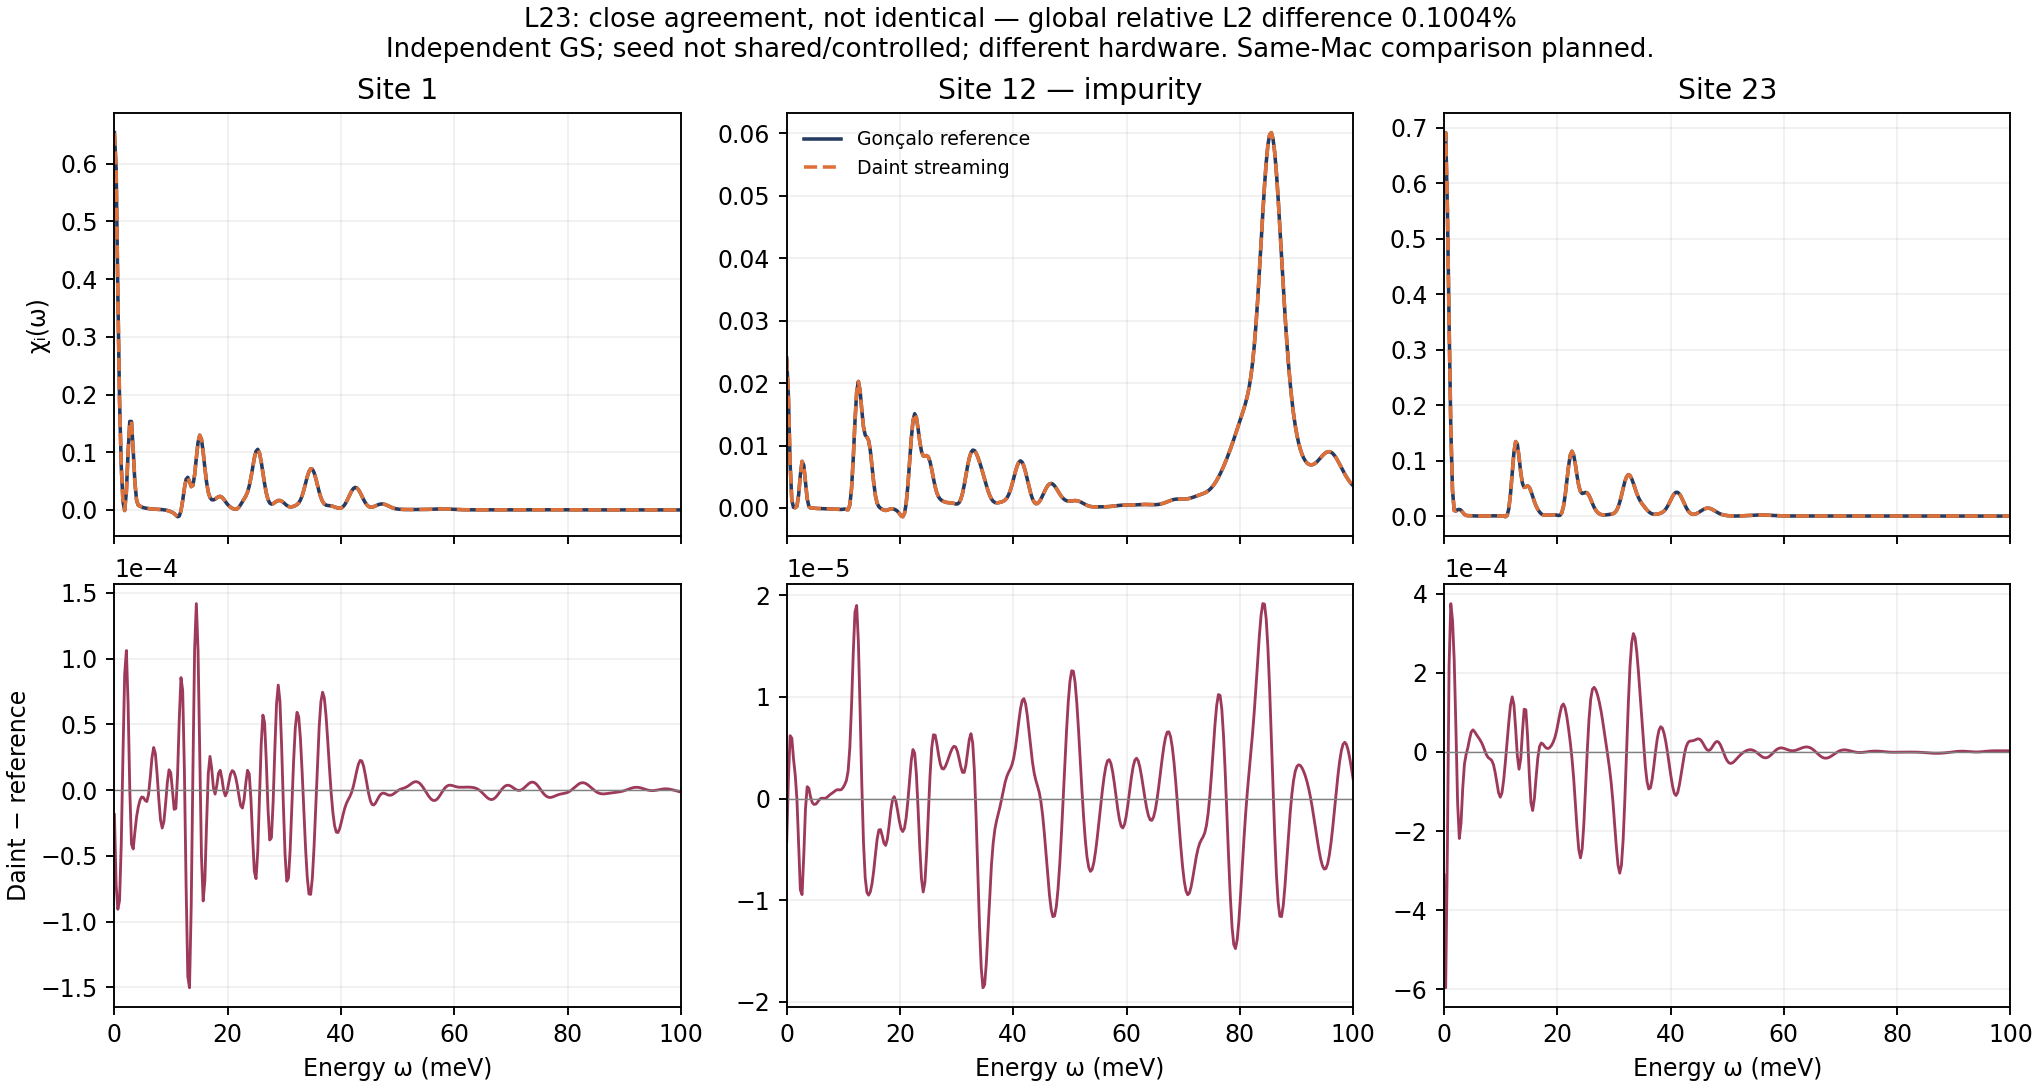
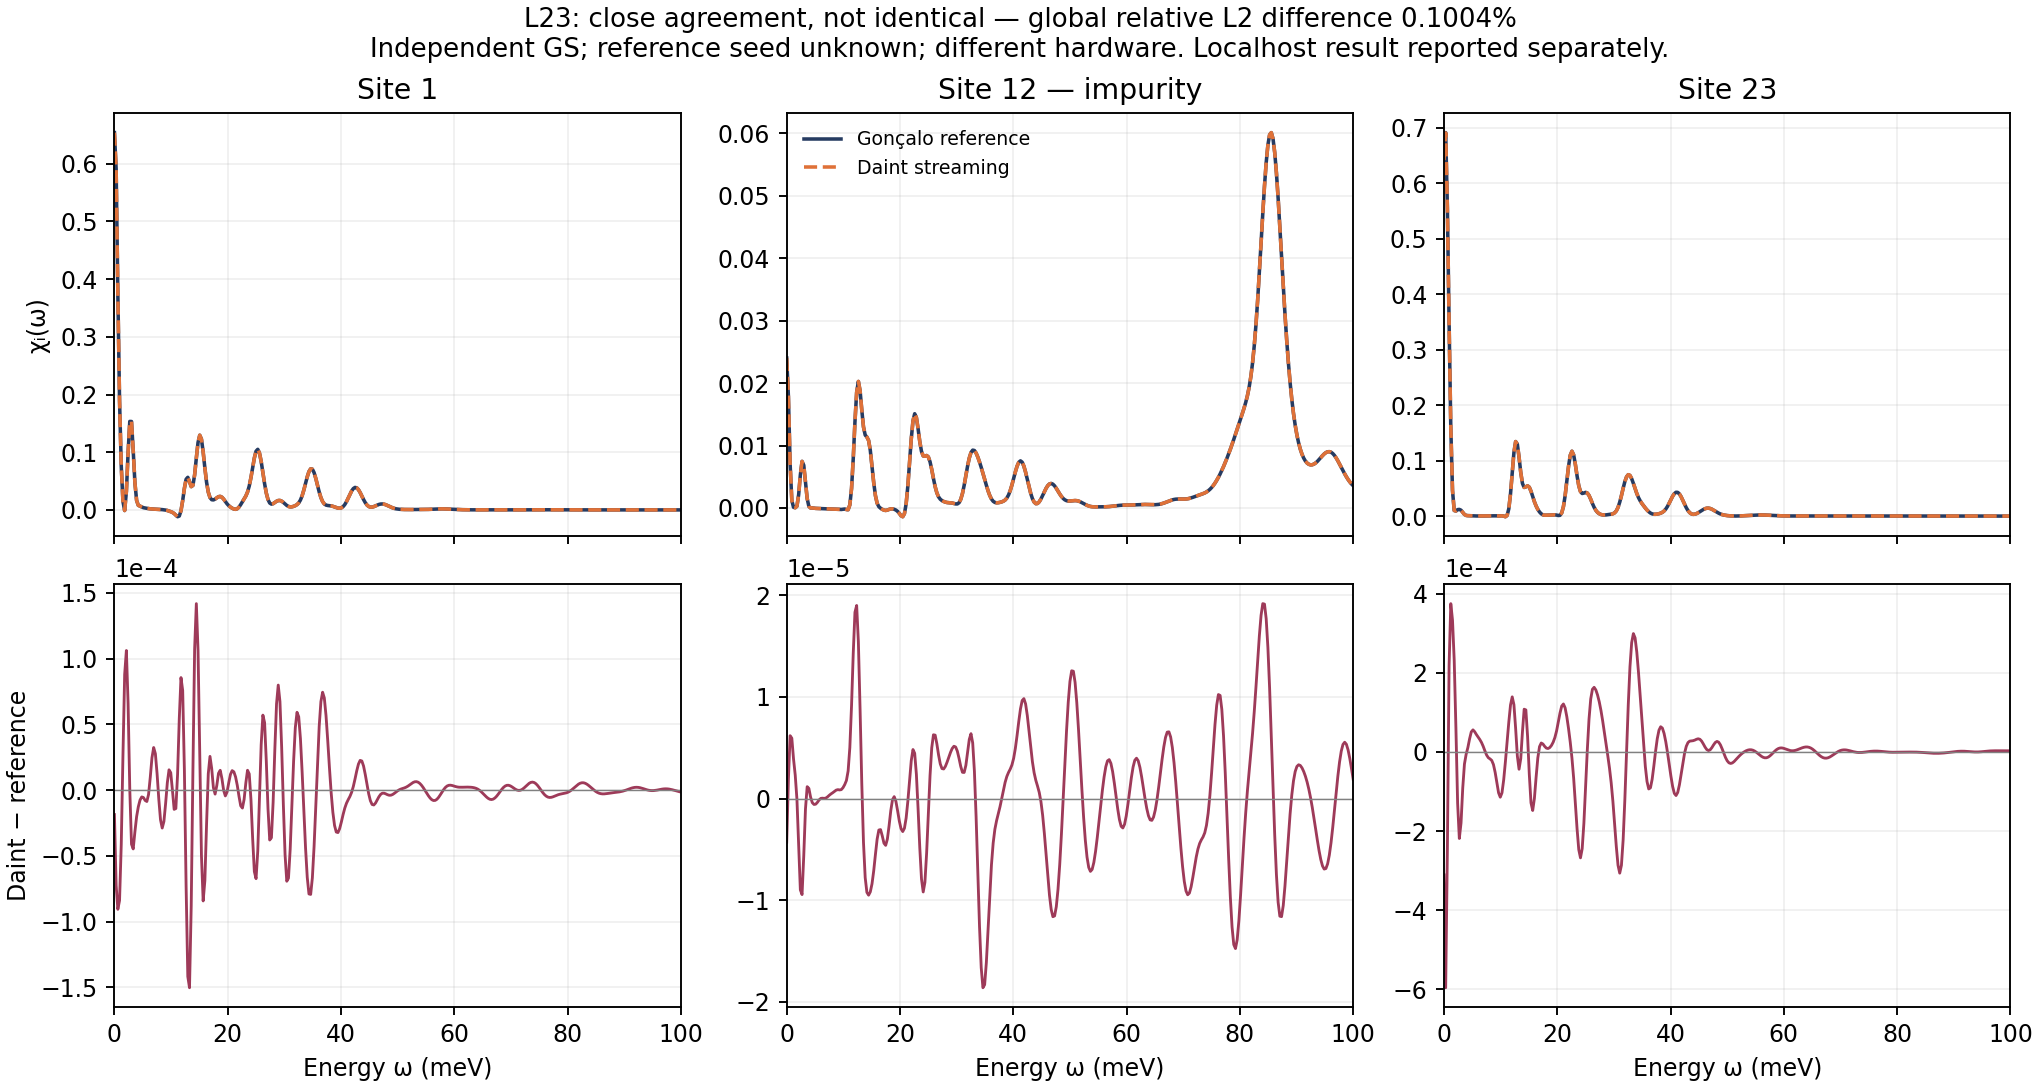
Add L23 validation and performance plots

Changed region(s): [[0.1853, 0.0312, 0.8338, 0.0625]]

diff --git a/tools/plot_l23_localhost.py b/tools/plot_l23_localhost.py
@@ -1,0 +1,190 @@
+"""Verify and plot the retained L23 localhost validation; submits no calculations."""
+
+from __future__ import annotations
+
+import csv
+import tomllib
+from pathlib import Path
+
+import h5py
+import matplotlib
+import numpy as np
+
+matplotlib.use("Agg")
+import matplotlib.pyplot as plt
+
+REFERENCE_COLOR = "#263b61"
+LOCAL_COLOR = "#e67e3f"
+DELTA_COLOR = "#9e3a59"
+CHANNEL_COLORS = {"zz": "#3b6ea8", "pm": "#e09f3e", "mp": "#6a994e"}
+
+
+def read_spectrum(path: Path) -> tuple[np.ndarray, np.ndarray]:
+    with path.open(newline="") as handle:
+        rows = list(csv.DictReader(handle, delimiter="\t"))
+    if len(rows) != 23 * 333 or {int(row["state"]) for row in rows} != {1}:
+        raise ValueError("Expected one state, 23 sites and 333 frequencies")
+    omega, spectra = [], []
+    for site in range(1, 24):
+        site_rows = [row for row in rows if int(row["site"]) == site]
+        omega.append([float(row["omega_meV"]) for row in site_rows])
+        spectra.append([float(row["chi"]) for row in site_rows])
+    return np.asarray(omega), np.asarray(spectra)
+
+
+def read_reference(path: Path) -> np.ndarray:
+    with h5py.File(path, "r") as handle:
+        references = handle[handle["χ_n_i"][0]][()]
+        return np.asarray([handle[reference][()] for reference in references])
+
+
+def verify_metrics(reference, spectrum, omega, recorded):
+    expected_omega = np.tile(np.linspace(0, 100, 333), (23, 1))
+    if (
+        reference.shape != spectrum.shape
+        or reference.shape != omega.shape
+        or reference.shape != (23, 333)
+    ):
+        raise ValueError("Reference and result must both contain 23 x 333 values")
+    if not np.isfinite(reference).all() or not np.isfinite(spectrum).all():
+        raise ValueError("Reference or result contains non-finite values")
+    np.testing.assert_allclose(omega, expected_omega)
+    delta = spectrum - reference
+    relative_l2 = np.linalg.norm(delta) / np.linalg.norm(reference)
+    max_abs = np.max(np.abs(delta))
+    np.testing.assert_allclose(relative_l2, recorded["relative_L2_difference"], rtol=1e-12)
+    np.testing.assert_allclose(max_abs, recorded["max_abs_difference"], rtol=1e-12)
+    matching_peaks = np.count_nonzero(np.argmax(reference, axis=1) == np.argmax(spectrum, axis=1))
+    if matching_peaks != 23:
+        raise ValueError(f"Only {matching_peaks}/23 sampled peak positions match")
+    return delta, relative_l2, max_abs, matching_peaks
+
+
+def plot_spectra(output, reference, spectrum, omega, delta, relative_l2):
+    fig, axes = plt.subplots(2, 3, figsize=(12.2, 6.5), sharex="col", constrained_layout=True)
+    for column, site in enumerate((1, 12, 23)):
+        index = site - 1
+        axes[0, column].plot(
+            omega[index],
+            reference[index],
+            color=REFERENCE_COLOR,
+            linewidth=1.8,
+            label="Gonçalo gold standard",
+        )
+        axes[0, column].plot(
+            omega[index],
+            spectrum[index],
+            "--",
+            color=LOCAL_COLOR,
+            linewidth=1.45,
+            label="AiiDA localhost",
+        )
+        axes[0, column].set_title(f"Site {site}" + (" — spin-½ impurity" if site == 12 else ""))
+        axes[1, column].plot(omega[index], delta[index], color=DELTA_COLOR, linewidth=1.25)
+        axes[1, column].axhline(0, color="0.45", linewidth=0.65)
+        axes[1, column].set_xlabel("Energy ω (meV)")
+        axes[1, column].ticklabel_format(axis="y", style="sci", scilimits=(0, 0))
+        for row in range(2):
+            axes[row, column].set_xlim(0, 100)
+            axes[row, column].grid(alpha=0.18)
+    axes[0, 0].set_ylabel("χᵢ(ω)")
+    axes[1, 0].set_ylabel("Localhost − gold")
+    axes[0, 1].legend(frameon=False, fontsize=8.5)
+    fig.suptitle(
+        f"L=23 localhost validation — relative L2 difference {100 * relative_l2:.4f}%\n"
+        "Independent ground states; reference seed unknown; sampled peaks match at all 23 sites",
+        fontsize=11.5,
+    )
+    fig.savefig(output, dpi=180)
+    plt.close(fig)
+
+
+def plot_diagnostics(output, comparison_path, timing_path, summary_path):
+    with comparison_path.open(newline="") as handle:
+        comparison = list(csv.DictReader(handle, delimiter="\t"))
+    with timing_path.open(newline="") as handle:
+        timings = list(csv.DictReader(handle, delimiter="\t"))
+    with summary_path.open(newline="") as handle:
+        summaries = list(csv.DictReader(handle, delimiter="\t"))
+
+    fig, axes = plt.subplots(1, 3, figsize=(15, 4.8), constrained_layout=True)
+
+    sites = np.asarray([int(row["site"]) for row in comparison])
+    site_l2 = 100 * np.asarray([float(row["relative_L2"]) for row in comparison])
+    axes[0].bar(sites, site_l2, color="#4f8a8b", width=0.78)
+    axes[0].axvspan(11.5, 12.5, color="#f4a261", alpha=0.18, label="impurity")
+    axes[0].set(xlabel="Site", ylabel="Relative L2 difference (%)", title="Agreement by site")
+    axes[0].set_xticks([1, 4, 8, 12, 16, 20, 23])
+    axes[0].grid(axis="y", alpha=0.2)
+    axes[0].legend(frameon=False, fontsize=8)
+
+    offsets = {"zz": -0.24, "pm": 0.0, "mp": 0.24}
+    for channel in ("zz", "pm", "mp"):
+        rows = [row for row in timings if row["channel"] == channel]
+        x = np.asarray([int(row["site"]) for row in rows], dtype=float) + offsets[channel]
+        minutes = np.asarray([float(row["seconds"]) / 60 for row in rows])
+        axes[1].bar(x, minutes, width=0.22, color=CHANNEL_COLORS[channel], label=channel)
+    axes[1].axvspan(11.5, 12.5, color="#d62828", alpha=0.08)
+    axes[1].set_yscale("log")
+    axes[1].set(
+        xlabel="Site", ylabel="Task time (minutes, log scale)", title="Measured spectral-task cost"
+    )
+    axes[1].set_xticks([1, 4, 8, 12, 16, 20, 23])
+    axes[1].grid(axis="y", which="both", alpha=0.2)
+    axes[1].legend(frameon=False, ncol=3, fontsize=8)
+
+    labels = [row["label"] for row in summaries]
+    minutes = [float(row["minutes"]) for row in summaries]
+    colors = ["#7a8fa6", "#506784", LOCAL_COLOR, "#8b6f9e"]
+    positions = np.arange(len(labels))
+    axes[2].barh(positions, minutes, color=colors)
+    axes[2].set_yticks(positions, labels)
+    axes[2].invert_yaxis()
+    axes[2].set(xlabel="Elapsed time (minutes)", title="Reported elapsed times")
+    axes[2].grid(axis="x", alpha=0.2)
+    for position, value in zip(positions, minutes):
+        axes[2].text(value + 0.45, position, f"{value:.1f}", va="center", fontsize=8.5)
+    axes[2].set_xlim(0, max(minutes) * 1.18)
+
+    fig.suptitle(
+        "L=23 numerical agreement and performance diagnostics\n"
+        "Time bars use different machines/boundaries and are not a controlled speedup benchmark",
+        fontsize=11.5,
+    )
+    fig.savefig(output, dpi=180)
+    plt.close(fig)
+
+
+def main():
+    root = Path(__file__).resolve().parents[1]
+    result_dir = root / "results" / "L23"
+    local_dir = result_dir / "localhost"
+    reference_path = root / "examples" / "l23_goncalo_20260917" / "reference" / "chi_L23.jld2"
+
+    reference = read_reference(reference_path)
+    omega, spectrum = read_spectrum(local_dir / "spectrum.tsv")
+    with (local_dir / "comparison.toml").open("rb") as handle:
+        recorded = tomllib.load(handle)
+    delta, relative_l2, max_abs, matching_peaks = verify_metrics(
+        reference, spectrum, omega, recorded
+    )
+
+    comparison_output = result_dir / "l23_localhost_comparison.png"
+    diagnostics_output = result_dir / "l23_localhost_diagnostics.png"
+    plot_spectra(comparison_output, reference, spectrum, omega, delta, relative_l2)
+    plot_diagnostics(
+        diagnostics_output,
+        local_dir / "comparison_by_site.tsv",
+        local_dir / "task_timings.tsv",
+        result_dir / "timing_summary.tsv",
+    )
+    print(
+        f"relative_L2={relative_l2:.17g}; max_abs={max_abs:.17g}; "
+        f"matching_peak_indices={matching_peaks}/23"
+    )
+    print(comparison_output)
+    print(diagnostics_output)
+
+
+if __name__ == "__main__":
+    main()

diff --git a/tools/plot_l23_comparison.py b/tools/plot_l23_comparison.py
@@ -67,7 +67,7 @@ def main():
     axes[0, 1].legend(frameon=False, fontsize=8)
     fig.suptitle(
         f"L23: close agreement, not identical — global relative L2 difference {100 * relative_l2:.4f}%\n"
-        "Independent GS; seed not shared/controlled; different hardware. Same-Mac comparison planned.",
+        "Independent GS; reference seed unknown; different hardware. Localhost result reported separately.",
         fontsize=11,
     )
     output = result_dir / "l23_comparison.png"

diff --git a/results/L23/README.md b/results/L23/README.md
@@ -126,6 +126,14 @@ This measured heterogeneity motivates a future cost-aware or dynamic task
 assignment; merely changing thread/process decomposition on the same eight
 cores cannot provide a large gain.
 
+![Localhost spectra compared with Gonçalo's gold standard](l23_localhost_comparison.png)
+
+![L23 numerical and timing diagnostics](l23_localhost_diagnostics.png)
+
+The timing bars deliberately retain their different measurement boundaries and
+are **not** presented as a controlled speedup benchmark. The underlying values
+and scope notes are stored in [timing_summary.tsv](timing_summary.tsv).
+
 Retained local outputs: [compact JLD2](localhost/chi_L23.jld2),
 [spectrum](localhost/spectrum.tsv), [task timings](localhost/task_timings.tsv),
 [comparison summary](localhost/comparison.toml),

diff --git a/results/L23/localhost/README.md b/results/L23/localhost/README.md
@@ -17,4 +17,6 @@ and the versioned `spin1_chain_spinhalf_impurity_v1` model.
 
 The reference and this run did not share a GS checkpoint, and the reference
 seed is unknown. Treat the comparison as an independent physics reproduction,
-not a bitwise-equivalence test.
+not a bitwise-equivalence test. The parent report includes the
+[gold-standard overlay](../l23_localhost_comparison.png) and
+[numerical/timing diagnostics](../l23_localhost_diagnostics.png).
